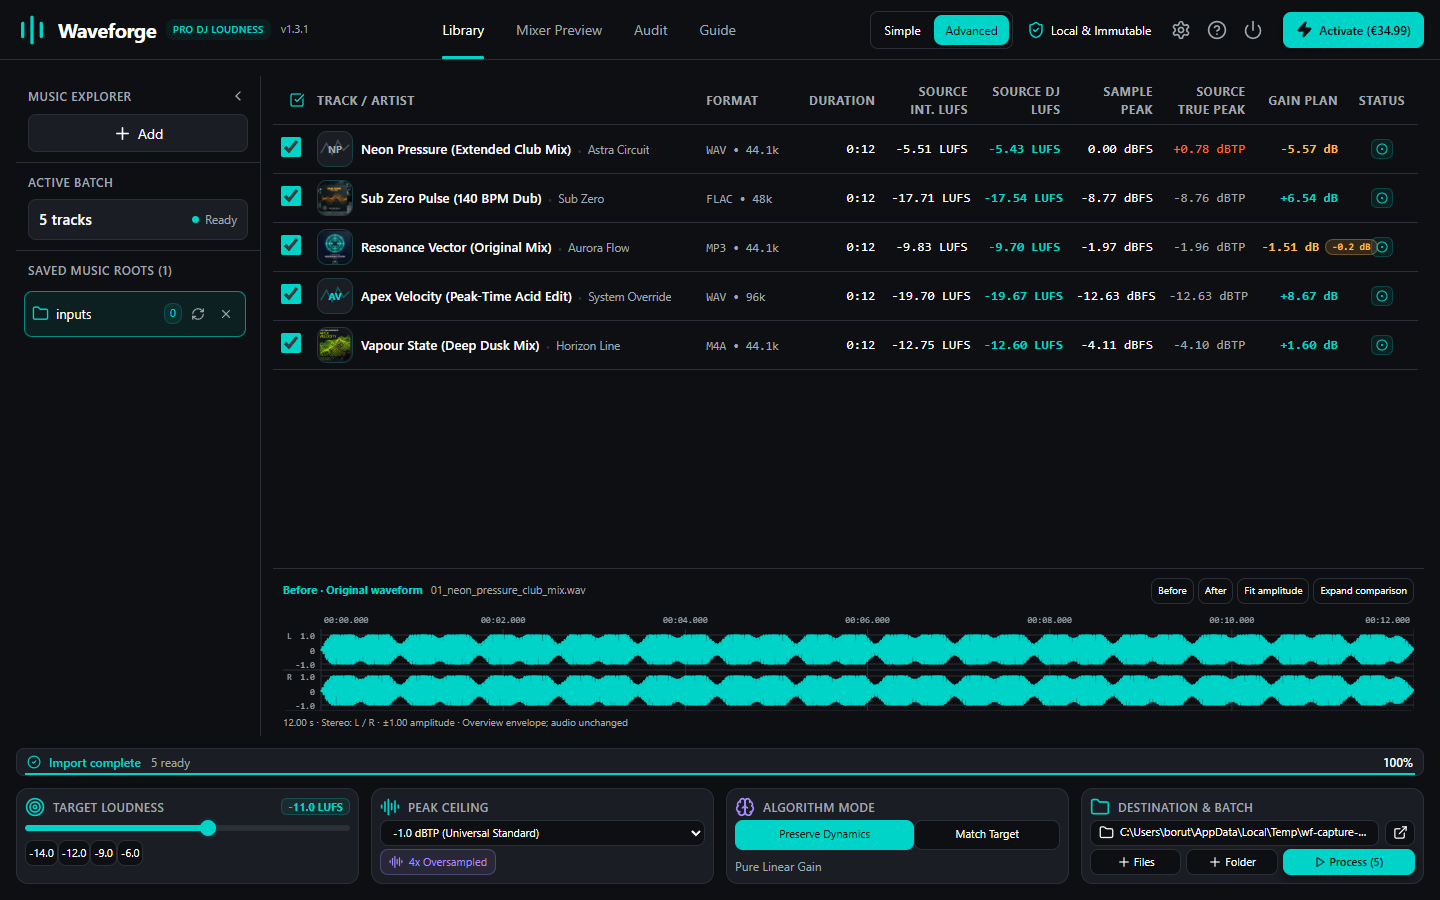
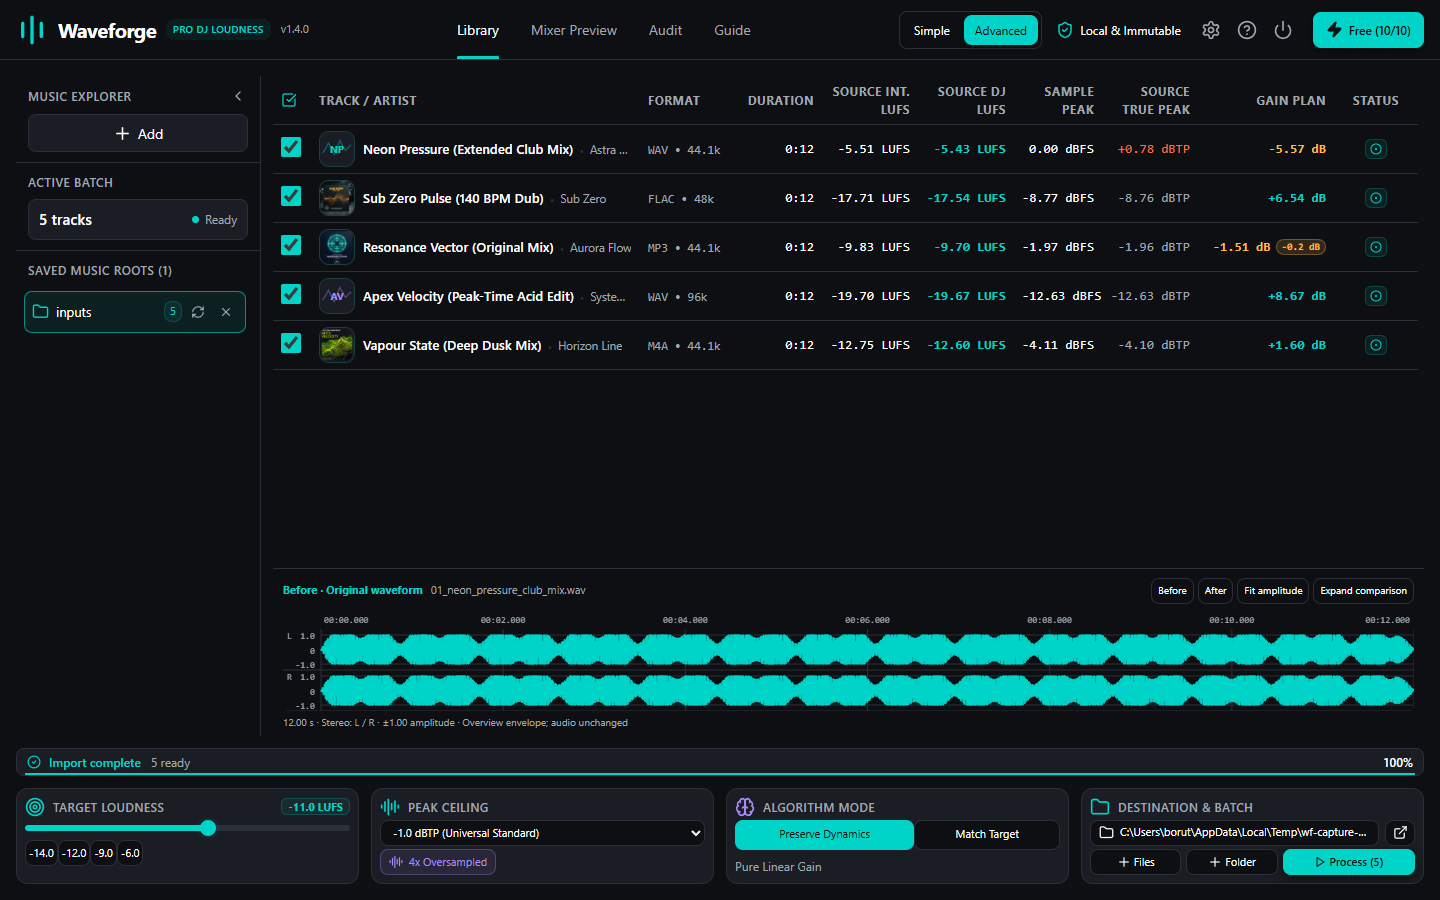
docs(release): update to v1.4.0 free starter (10 exports), refreshed UI screenshots, remove emojis and llms-full link

diff --git a/README.md b/README.md
@@ -2,7 +2,7 @@
   <a href="https://waveforge-app.com">
     <img src="https://waveforge-app.com/favicon.svg" width="80" height="80" alt="Waveforge Logo" />
   </a>
-  <h1 align="center">🎚 Waveforge</h1>
+  <h1 align="center">Waveforge</h1>
   <p align="center"><strong>Precision DJ Loudness &amp; 4× True-Peak Mastering Workstation for Touring DJs and Producers</strong></p>
   <p align="center"><em>100% Offline, Local-First ITU-R BS.1770-4 Normalization &amp; Lossless MP3 FrameGain with Immutable Source Protection</em></p>
 
@@ -13,31 +13,32 @@
   </p>
 
   <p align="center">
-    <img src="https://img.shields.io/badge/Release-v1.3.1-00E5C3?style=flat-square&logo=github" alt="Release v1.3.1" />
+    <img src="https://img.shields.io/badge/Release-v1.4.0-00E5C3?style=flat-square&logo=github" alt="Release v1.4.0" />
     <img src="https://img.shields.io/badge/DSP-64--bit_Float_Rust-orange?style=flat-square" alt="64-bit Float Rust DSP" />
     <img src="https://img.shields.io/badge/Standards-ITU--R_BS.1770--4_%7C_EBU_R128-brightgreen?style=flat-square" alt="ITU-R BS.1770-4" />
     <img src="https://img.shields.io/badge/Platforms-Windows_%7C_macOS_Universal_%7C_Linux-blue?style=flat-square" alt="Windows, macOS Universal, Linux" />
+    <img src="https://img.shields.io/badge/Free_Starter-10_Verified_Exports-22C55E?style=flat-square" alt="Free Starter 10 Verified Exports" />
   </p>
 
   <br />
   <a href="https://waveforge-app.com">
-    <img src="docs/screenshots/03-track-inspector-and-meter.png" alt="Waveforge v1.3.1 Track Inspector, BS.1770-4 Meter and Dual Waveform HUD" width="1000" style="border-radius: 12px; box-shadow: 0 14px 40px rgba(0,0,0,0.7); margin-top: 10px; margin-bottom: 20px;" />
+    <img src="docs/screenshots/03-track-inspector-and-meter.png" alt="Waveforge v1.4.0 Track Inspector, BS.1770-4 Meter and Dual Waveform HUD" width="1000" style="border-radius: 12px; box-shadow: 0 14px 40px rgba(0,0,0,0.7); margin-top: 10px; margin-bottom: 20px;" />
   </a>
 </div>
 
 ---
 
-## 🎚 What is Waveforge?
+## What is Waveforge?
 
-**Waveforge** is a standalone, 100% offline desktop audio mastering and crate loudness calibration workstation engineered for touring DJs, club residents, and electronic music producers. Built in memory-safe Rust with 64-bit double-precision DSP, Waveforge eliminates sudden booth volume jumps and mixer DAC clipping across mixed crates of masters from different eras and labels.
+**Waveforge** is an offline desktop audio mastering and crate loudness calibration workstation engineered for touring DJs, club residents, and electronic music producers. Built in Rust with 64-bit double-precision DSP, Waveforge removes booth volume jumps and mixer DAC clipping across mixed crates of masters from different eras and labels.
 
-Instead of relying on software-only Auto-Gain flags that vanish when you plug a USB stick into standalone club hardware, Waveforge calibrates actual audio headroom against **ITU-R BS.1770-4** integrated loudness (`LUFS_int`) and **Representative DJ Drop Loudness** (`LUFS_rep`) while keeping your original source files completely untouched.
+Instead of relying on software-only Auto-Gain flags that disappear when a USB stick is loaded onto standalone club hardware, Waveforge calibrates actual audio headroom against **ITU-R BS.1770-4** integrated loudness (`LUFS_int`) and **Representative DJ Drop Loudness** (`LUFS_rep`) while keeping original source files untouched.
 
-👉 **[Explore Waveforge v1.3.1 at waveforge-app.com](https://waveforge-app.com)** · **[Try Free Online DJ Engineering Tools](https://waveforge-app.com/tools/dj-headroom-calculator.html)**
+**[Download Waveforge v1.4.0 Free Starter at waveforge-app.com](https://waveforge-app.com/#download)** · **[Try Free Online DJ Engineering Tools](https://waveforge-app.com/tools/dj-headroom-calculator.html)**
 
 ---
 
-## ⚡ Audio DSP & Safety Architecture
+## Audio DSP & Safety Architecture
 
 <div align="center">
   <p>
@@ -49,7 +50,7 @@ Instead of relying on software-only Auto-Gain flags that vanish when you plug a 
   </p>
 </div>
 
-### How Waveforge Processes Your Crate Safely
+### How Waveforge Processes Crates Safely
 
 ```text
 [Local DJ Crate: WAV / AIFF / FLAC / ALAC / MP3 / M4A] (Strictly Read-Only Source)
@@ -80,22 +81,22 @@ Instead of relying on software-only Auto-Gain flags that vanish when you plug a 
 ```
 
 1. **ITU-R BS.1770-4 & Representative Drop Calibration**:
-   - Computes both Integrated Loudness (`LUFS_int`) and drop-focused Representative DJ Loudness (`LUFS_rep`) so quiet atmospheric breakdowns do not trick tracks into blowing out the drop.
-   - Ships with practical booth presets (`-9.0 LUFS` Peak-Time, `-11.0 LUFS` Club Standard, `-12.0 LUFS` Dynamic Club, `-14.0 LUFS` Streaming) plus a continuous slider.
+   - Computes both Integrated Loudness (`LUFS_int`) and drop-focused Representative DJ Loudness (`LUFS_rep`) so long atmospheric intros do not push drop levels past club headroom.
+   - Includes booth presets (`-9.0 LUFS` Peak-Time, `-11.0 LUFS` Club Standard, `-12.0 LUFS` Dynamic Club, `-14.0 LUFS` Streaming) alongside continuous manual target selection.
 2. **4× Oversampled True-Peak Protection**:
-   - Uses ITU-R BS.1770-4 Annex 2 polyphase sinc interpolation to catch intersample overshoots before they distort club mixer DAC reconstruction stages (`-1.0 dBTP` default ceiling).
+   - Applies ITU-R BS.1770-4 Annex 2 polyphase sinc interpolation to catch intersample overshoots before they clip Pioneer CDJ or DJM DAC stages (`-1.0 dBTP` default ceiling).
 3. **Lossless MP3 FrameGain Without Re-Encoding**:
-   - For MP3 crates in `PreserveDynamics`, modifies the 8-bit `global_gain` header directly in `1.505 dB` steps—avoiding decode/re-encode generational loss while preserving metadata.
+   - In `PreserveDynamics`, modifies MPEG `global_gain` bitstream fields directly in `1.505 dB` steps without decode/re-encode generational loss, retaining ID3 tags and cue chunks.
 4. **Independent Physical Disk Remeasurement**:
-   - Every exported file is reopened directly from storage through a fresh decoder pass to verify actual decodable frames, metadata retention, and post-write LUFS / dBTP compliance.
+   - Every exported file is reopened directly from storage through a fresh decoder pass to verify decodable frames, metadata retention, and post-write LUFS and `dBTP` readings.
 
 ---
 
-## 🎛 The 7-Stage DJ Mastering Workflow
+## The 7-Stage DJ Mastering Workflow
 
 ```text
-[1. Drop Crate] ➔ [2. Gain Plan] ➔ [3. Inspect] ➔ [4. Waveform HUD] ➔ [5. Offline Key] ➔ [6. Disk Audit] ➔ [7. Multi-Deck Mixer]
- Read-Only Scan     LUFS vs dBTP     BS.1770-4      Original vs Out     Ed25519 Signed    5-Gate Receipt    Raw vs Norm A/B
+[1. Drop Crate] -> [2. Gain Plan] -> [3. Inspect] -> [4. Waveform HUD] -> [5. Trial / Key] -> [6. Disk Audit] -> [7. Multi-Deck Mixer]
+ Read-Only Scan     LUFS vs dBTP     BS.1770-4      Original vs Out     10 Free / Ed25519    5-Gate Receipt    Raw vs Norm A/B
 ```
 
 | Stage | View / Component | What It Does |
@@ -103,101 +104,101 @@ Instead of relying on software-only Auto-Gain flags that vanish when you plug a 
 | **1. Crate Dropzone** | **Drag & Drop Ingestion** | Scans recursive folders locally for `WAV`, `AIFF`, `FLAC`, `MP3`, `ALAC`, `AAC`, and `M4A` without modifying source files. |
 | **2. Batch Planning** | **Loudness & Gain Matrix** | Displays format, sample rate, `LUFS_int`, `LUFS_rep`, Sample Peak, `4×` True Peak (`dBTP`), and transparent gain / headroom shortfall. |
 | **3. Track Inspector** | **Hardware AudioMeter** | Real-time BS.1770-4 metering, peak-hold notch, codec telemetry, and inline stereo waveform preview. |
-| **4. Waveform HUD** | **Dual-Lane Comparison** | Synchronized Original (cyan) vs. Processed (orange) waveform lanes with `2x`/`4x`/`8x` zoom and `-1.0 dBTP` ceiling lines. |
-| **5. Offline Activation** | **Ed25519 Licence Unlock** | One-time local key activation (`WF-XXXXX-...` or signed offline `WF1...` token) with zero cloud dependency during audio DSP. |
+| **4. Waveform HUD** | **Dual-Lane Comparison** | Synchronized Original (cyan) vs. Processed (orange) waveform lanes with `2x`/`4x`/`8x` zoom and `-1.0 dBTP` ceiling guides. |
+| **5. Free Trial & Offline Activation** | **10 Free Exports / Ed25519 Unlock** | Includes 10 verified exports right out of the box, plus offline activation via `WF-...` key or signed `WF1...` token for unlimited exports. |
 | **6. Audit Receipts** | **Disk Verification Gate** | Verifies Decodable frames, Frame Match, Metadata retention (`LIST`/`bext`/`cue`/`id3`), and post-write True Peak; exports JSON & CSV logs. |
 | **7. Mixer Preview** | **Multi-Deck A/B Console** | Up to 8 virtual decks (`CH 01–08`), instant **Raw vs. Norm** switching, Intro/Break/Drop jumps, and 10s rolling RMS/Peak breathing scope. |
 
 ---
 
-## ✨ Key Capabilities
+## Core Architecture & Guarantees
 
-- 🔒 **100% Local & Air-Gapped Audio Processing**: Unreleased promos, dubplates, and pre-release masters never leave your computer. Zero analytics tracking of your audio files and zero cloud uploads.
-- 🛡 **Strict Source Media Immutability**: Source files are opened strictly read-only. Normalized outputs are written to a dedicated destination directory via atomic `.tmp` staging.
-- 💎 **Lossless Bitstream & Full PCM Preservation**: Supports 16/24/32-bit float `WAV` (including Broadcast WAV `bext`), `AIFF`, `FLAC`, `ALAC`, `MP3`, and `M4A` while retaining `ID3v2`, Pioneer `GEOB`, Traktor `NML`, Vorbis comments, RIFF metadata chunks, and embedded artwork.
-- 🎚 **Choice of Dynamics Policy**: Pick **`PreserveDynamics`** for pure linear scalar gain (zero dynamic compression, explicit headroom shortfall reporting) or **`MatchTarget`** when hitting a uniform LUFS target requires transparent lookahead peak limiting.
-- 🖥 **Native Cross-Platform Desktop Builds (`v1.3.1`)**: Built natively for **Windows 10/11 (x64)**, **macOS 12+ Universal** (Apple Silicon M1–M4 & Intel x86_64), and **Linux x64** (`AppImage` & `.deb`).
+- **Local & Air-Gapped Audio Processing**: Unreleased promos, dubplates, and pre-release masters stay strictly on local storage with zero cloud uploads or telemetry.
+- **Strict Source Media Immutability**: Source files are opened read-only and never mutated. Outputs write into a separate folder through atomic `.tmp` staging.
+- **Lossless Bitstream & Metadata Preservation**: Supports 16/24/32-bit float `WAV` (including Broadcast WAV `bext`), `AIFF`, `FLAC`, `ALAC`, `MP3`, and `M4A` while retaining `ID3v2`, Pioneer `GEOB`, Traktor `NML`, Vorbis comments, RIFF metadata chunks, and embedded artwork.
+- **Selectable Dynamics Policy**: Choose **`PreserveDynamics`** for pure linear gain (zero compression, explicit headroom shortfall reporting) or **`MatchTarget`** when uniform club targets require transparent lookahead limiting.
+- **Cross-Platform Desktop Builds (`v1.4.0`)**: Native installers for **Windows 10/11 (x64)**, **macOS 12+ Universal** (Apple Silicon M1–M4 & Intel x86_64), and **Linux x64** (`AppImage` & `.deb`).
 
 ---
 
-## 🚀 Licensing & Free Online Engineering Tools
+## Licensing & Free Tools
 
 | Tier / Offering | Price | Availability | Key Capabilities Included |
 |---|---|---|---|
-| **Free Online DJ Tools** | **€0.00**<br>*(No Account)* | Web Browser<br>*(Local JS)* | • [**DJ Headroom & Intersample Peak Calculator**](https://waveforge-app.com/tools/dj-headroom-calculator.html)<br>• [**Rekordbox, Traktor & Serato XML Crate Health Checker**](https://waveforge-app.com/tools/rekordbox-crate-checker.html) |
-| **Waveforge Lifetime Desktop** | **€34.99**<br>*(One-Time)* | Windows · macOS Universal · Linux | • Unlimited offline batch normalization, `4×` True-Peak limiter & Lossless MP3 FrameGain<br>• Dual-Lane Waveform HUD, 8-Deck Mixer Preview & JSON/CSV disk verification receipts<br>• **2 concurrent workstation activations** with self-service deactivation & key recovery<br>• Free `v1.x` updates & **30-day money-back guarantee** (Stripe, PayPal, Crypto) |
+| **Free Online DJ Tools** | **€0.00**<br>*(No Account)* | Web Browser<br>*(Local JS)* | [DJ Headroom & Intersample Peak Calculator](https://waveforge-app.com/tools/dj-headroom-calculator.html) · [Rekordbox, Traktor & Serato XML Crate Health Checker](https://waveforge-app.com/tools/rekordbox-crate-checker.html) |
+| **Waveforge Free Starter (`v1.4.0`)** | **€0.00**<br>*(No Account)* | Windows · macOS Universal · Linux | Unlimited local library scanning, BS.1770-4 metering, Dual-Lane Waveform HUD & 8-deck Mixer Preview · **10 verified track exports** offline (cancelled/failed runs never consume credits) |
+| **Waveforge Lifetime Desktop** | **€34.99**<br>*(One-Time)* | Windows · macOS Universal · Linux | Unlimited offline batch exports, `4×` True-Peak limiting & Lossless MP3 FrameGain · JSON/CSV disk verification receipts · **2 concurrent workstation activations** with self-service deactivation & key recovery · Free `v1.x` updates & **30-day money-back guarantee** |
 
 ---
 
-## 📸 Workstation Tour (`v1.3.1` Native App Captures)
+## Workstation Tour (`v1.4.0` Native App Captures)
 
 <div align="center">
-  <h3>📂 Empty Dropzone &amp; Multi-Format Ingestion</h3>
-  <p><em>Drag tracks or recursive library folders locally with instant target loudness, true-peak ceiling, and mode controls</em></p>
+  <h3>Empty Dropzone &amp; Multi-Format Ingestion</h3>
+  <p><em>Drag tracks or recursive library folders locally with target loudness, true-peak ceiling, mode controls, and Free Starter export counter</em></p>
   <img src="docs/screenshots/01-empty-library-dropzone.png" alt="Waveforge Empty Dropzone and Ingestion Setup" width="950" style="border-radius: 10px; box-shadow: 0 8px 28px rgba(0,0,0,0.5); margin-bottom: 28px;" />
 
-  <h3>📊 Batch Loudness &amp; Transparent Gain Planning Matrix</h3>
-  <p><em>Inspect Source Integrated LUFS, Representative DJ LUFS, 4× True Peak (dBTP), and exact planned gain per track before processing</em></p>
+  <h3>Batch Loudness &amp; Transparent Gain Planning Matrix</h3>
+  <p><em>Inspect Duration, Source Integrated LUFS, Representative DJ LUFS, Sample Peak, 4× True Peak (dBTP), and planned gain / shortfall chips before export</em></p>
   <img src="docs/screenshots/02-batch-ingestion-and-planning.png" alt="Waveforge Batch Loudness Analysis and Gain Plan" width="950" style="border-radius: 10px; box-shadow: 0 8px 28px rgba(0,0,0,0.5); margin-bottom: 28px;" />
 
-  <h3>🎛 Track Inspector &amp; BS.1770-4 AudioMeter</h3>
+  <h3>Track Inspector &amp; BS.1770-4 AudioMeter</h3>
   <p><em>Per-track loudness breakdown vs. club target, codec telemetry, and embedded artwork inspection</em></p>
   <img src="docs/screenshots/03-track-inspector-and-meter.png" alt="Waveforge Track Inspector and Loudness Meter" width="950" style="border-radius: 10px; box-shadow: 0 8px 28px rgba(0,0,0,0.5); margin-bottom: 28px;" />
 
-  <h3>🔬 Dual-Lane Waveform Comparison HUD</h3>
+  <h3>Dual-Lane Waveform Comparison HUD</h3>
   <p><em>Decoded Original (cyan) vs. Processed Output (orange) on a shared amplitude scale with 2x/4x/8x zoom and -1.0 dBTP ceiling guides</em></p>
   <img src="docs/screenshots/04-waveform-comparison-hud.png" alt="Waveforge Dual-Lane Waveform Comparison HUD" width="950" style="border-radius: 10px; box-shadow: 0 8px 28px rgba(0,0,0,0.5); margin-bottom: 28px;" />
 
-  <h3>🔑 Air-Gapped Ed25519 Workstation Activation</h3>
-  <p><em>Simple offline activation via 16-character software key or cryptographically signed offline token with non-invasive hardware ID</em></p>
-  <img src="docs/screenshots/05-offline-license-activation.png" alt="Waveforge Offline License Activation Modal" width="950" style="border-radius: 10px; box-shadow: 0 8px 28px rgba(0,0,0,0.5); margin-bottom: 28px;" />
+  <h3>Free Starter Allowance &amp; Air-Gapped Ed25519 Activation</h3>
+  <p><em>Shows remaining offline Free Starter exports (10/10) alongside one-time activation via 16-character key or offline token</em></p>
+  <img src="docs/screenshots/05-offline-license-activation.png" alt="Waveforge Free Starter and Offline License Activation Modal" width="950" style="border-radius: 10px; box-shadow: 0 8px 28px rgba(0,0,0,0.5); margin-bottom: 28px;" />
 
-  <h3>✅ Independent Disk Verification &amp; Audit Reports</h3>
+  <h3>Independent Disk Verification &amp; Audit Reports</h3>
   <p><em>Physical post-write remeasurement verifying decodable frames, preserved metadata, LosslessMp3FrameGain, and true-peak ceilings</em></p>
   <img src="docs/screenshots/06-batch-verification-results.png" alt="Waveforge Audit Results and Disk Verification Receipts" width="950" style="border-radius: 10px; box-shadow: 0 8px 28px rgba(0,0,0,0.5); margin-bottom: 28px;" />
 
-  <h3>🎧 Multi-Deck Mixer Preview (v1.3.1)</h3>
+  <h3>Multi-Deck Mixer Preview (v1.4.0)</h3>
   <p><em>Audition up to 8 tracks side by side with Raw vs. Norm switching, Intro/Break/Drop section jumps, and 10s rolling Peak/RMS scope</em></p>
-  <img src="docs/screenshots/07-multi-deck-meter-mixer.png" alt="Waveforge v1.3.1 Multi-Deck Mixer Preview" width="950" style="border-radius: 10px; box-shadow: 0 8px 28px rgba(0,0,0,0.5); margin-bottom: 28px;" />
+  <img src="docs/screenshots/07-multi-deck-meter-mixer.png" alt="Waveforge v1.4.0 Multi-Deck Mixer Preview" width="950" style="border-radius: 10px; box-shadow: 0 8px 28px rgba(0,0,0,0.5); margin-bottom: 28px;" />
 </div>
 
 ---
 
-## 🛠 Quick Start Workflow
+## Getting Started (Free 10-Track Trial -> Optional Lifetime Unlock)
 
-1. Download **Waveforge `v1.3.1`** for Windows, macOS Universal, or Linux at **[waveforge-app.com/#download](https://waveforge-app.com/#download)**.
-2. Drag your DJ folder or individual tracks (`WAV`, `AIFF`, `FLAC`, `MP3`, `M4A`) into the **Library** workspace.
-3. Choose your target loudness (for example `-11.0 LUFS` Club Standard), `-1.0 dBTP` true-peak ceiling, and `Preserve Dynamics` or `Match Target`.
-4. Select a separate output directory and click **Process** — source files remain completely untouched.
-5. Check the **Audit** view and **Mixer Preview** to verify true peaks and loudness consistency before syncing your USB crate to **Rekordbox**, **Serato**, **Traktor**, or **Engine DJ**.
-
----
-
-## 🎯 Ideal For
-
-- 🎧 **Club & Festival DJs**: Balance older vinyl rips, streaming promos, and slammed modern masters to consistent acoustic impact before booth soundcheck.
-- 🎚 **Electronic Producers & Mastering Studios**: Catch `+0.5` to `+3.0 dBTP` intersample DAC reconstruction overshoots before sending promos or club test mixes out.
-- 📻 **Radio Residents & Archive Curators**: Batch-normalize mixed-format crates losslessly (including native MP3 `FrameGain`) with full JSON/CSV audit trails.
+1. Download the native **Waveforge `v1.4.0` Free Starter** installer for Windows, macOS Universal, or Linux from **[waveforge-app.com/#download](https://waveforge-app.com/#download)** — no account or checkout required to install and inspect libraries.
+2. Drag local audio files or a recursive DJ folder (`WAV`, `AIFF`, `FLAC`, `MP3`, `M4A`) into the **Library** dropzone to inspect Integrated/Representative LUFS, 4× True Peak, and exact gain plans unlimited times.
+3. Choose a loudness target (e.g. `-11.0 LUFS` Club Standard), set the `-1.0 dBTP` true-peak ceiling, select `Preserve Dynamics` or `Match Target`, and export up to **10 verified tracks** free into a separate output directory.
+4. Inspect post-write measurements in **Audit** and audition Raw vs. Normalized audio in **Mixer Preview**. When you need unlimited batch exports across 2 workstations, unlock offline from the header licence badge (`€34.99` Lifetime).
 
 ---
 
-## 📚 Technical Research & Official Links
+## Who Uses Waveforge
 
-- 🌐 **Official Website & Downloads**: [https://waveforge-app.com](https://waveforge-app.com)
-- 📖 **Visual Step-by-Step Guide**: [https://waveforge-app.com/#guide](https://waveforge-app.com/#guide)
-- 🧮 **Free DJ Headroom Calculator**: [https://waveforge-app.com/tools/dj-headroom-calculator.html](https://waveforge-app.com/tools/dj-headroom-calculator.html)
-- 🗂 **Free Rekordbox XML Crate Checker**: [https://waveforge-app.com/tools/rekordbox-crate-checker.html](https://waveforge-app.com/tools/rekordbox-crate-checker.html)
-- 🔬 **Engineering Articles**:
+- **Club & Festival DJs**: Balance older vinyl rips, streaming promos, and modern masters to uniform loudness before soundcheck or Rekordbox/Serato/Engine USB export.
+- **Electronic Producers & Mastering Studios**: Identify `+0.5` to `+3.0 dBTP` intersample DAC reconstruction overshoots before sending promos or test masters out.
+- **Radio Residents & Archive Curators**: Batch-normalize mixed-format crates with non-destructive source handling and verifiable JSON/CSV receipts.
+
+---
+
+## Technical Research & Official Links
+
+- **Official Website & Free Starter Downloads**: [https://waveforge-app.com](https://waveforge-app.com)
+- **Visual Step-by-Step Guide**: [https://waveforge-app.com/#guide](https://waveforge-app.com/#guide)
+- **Free DJ Headroom Calculator**: [https://waveforge-app.com/tools/dj-headroom-calculator.html](https://waveforge-app.com/tools/dj-headroom-calculator.html)
+- **Free Rekordbox XML Crate Checker**: [https://waveforge-app.com/tools/rekordbox-crate-checker.html](https://waveforge-app.com/tools/rekordbox-crate-checker.html)
+- **Engineering Articles**:
   - [Why Digital Masters Clip on Pioneer CDJ Mixers (Intersample Peaks)](https://waveforge-app.com/articles/why-club-masters-clip-pioneer-cdj.html)
   - [ITU-R BS.1770-4 Loudness Normalization for DJs](https://waveforge-app.com/articles/itu-bs1770-true-peak-oversampling-guide.html)
   - [Lossless MP3 FrameGain vs. Lossy Re-Encoding](https://waveforge-app.com/articles/lossless-mp3-framegain-vs-reencoding.html)
-- ⚖ **Comparisons**:
+- **Comparisons**:
   - [Waveforge vs. Platinum Notes](https://waveforge-app.com/compare/waveforge-vs-platinum-notes.html)
   - [Waveforge vs. MP3Gain](https://waveforge-app.com/compare/waveforge-vs-mp3gain.html)
-- 📄 **Pricing, Technical Docs & Compliance**: [Pricing Spec](https://waveforge-app.com/pricing.md) · [Technical Index (`llms-full.txt`)](https://waveforge-app.com/llms-full.txt) · [Open-Source Notices & SBOM](https://waveforge-app.com/opensource/)
+- **Pricing & Compliance**: [Pricing Spec](https://waveforge-app.com/pricing.md) · [Open-Source Notices & SBOM](https://waveforge-app.com/opensource/)
 
 ---
 
 <div align="center">
-  <sub>© 2026 Waveforge · Documentation assets in this repository are MIT-licensed; the Waveforge desktop application is distributed under a commercial lifetime licence (<a href="https://waveforge-app.com/opensource/">open-source notices</a>). Pioneer DJ, Rekordbox, Serato, Traktor, and Engine DJ are trademarks of their respective owners.</sub>
+  <sub>© 2026 Waveforge · Documentation assets in this repository are MIT-licensed; the Waveforge desktop application offers a free 10-track starter allowance and commercial Lifetime licence (<a href="https://waveforge-app.com/opensource/">open-source notices</a>). Pioneer DJ, Rekordbox, Serato, Traktor, and Engine DJ are trademarks of their respective owners.</sub>
 </div>
